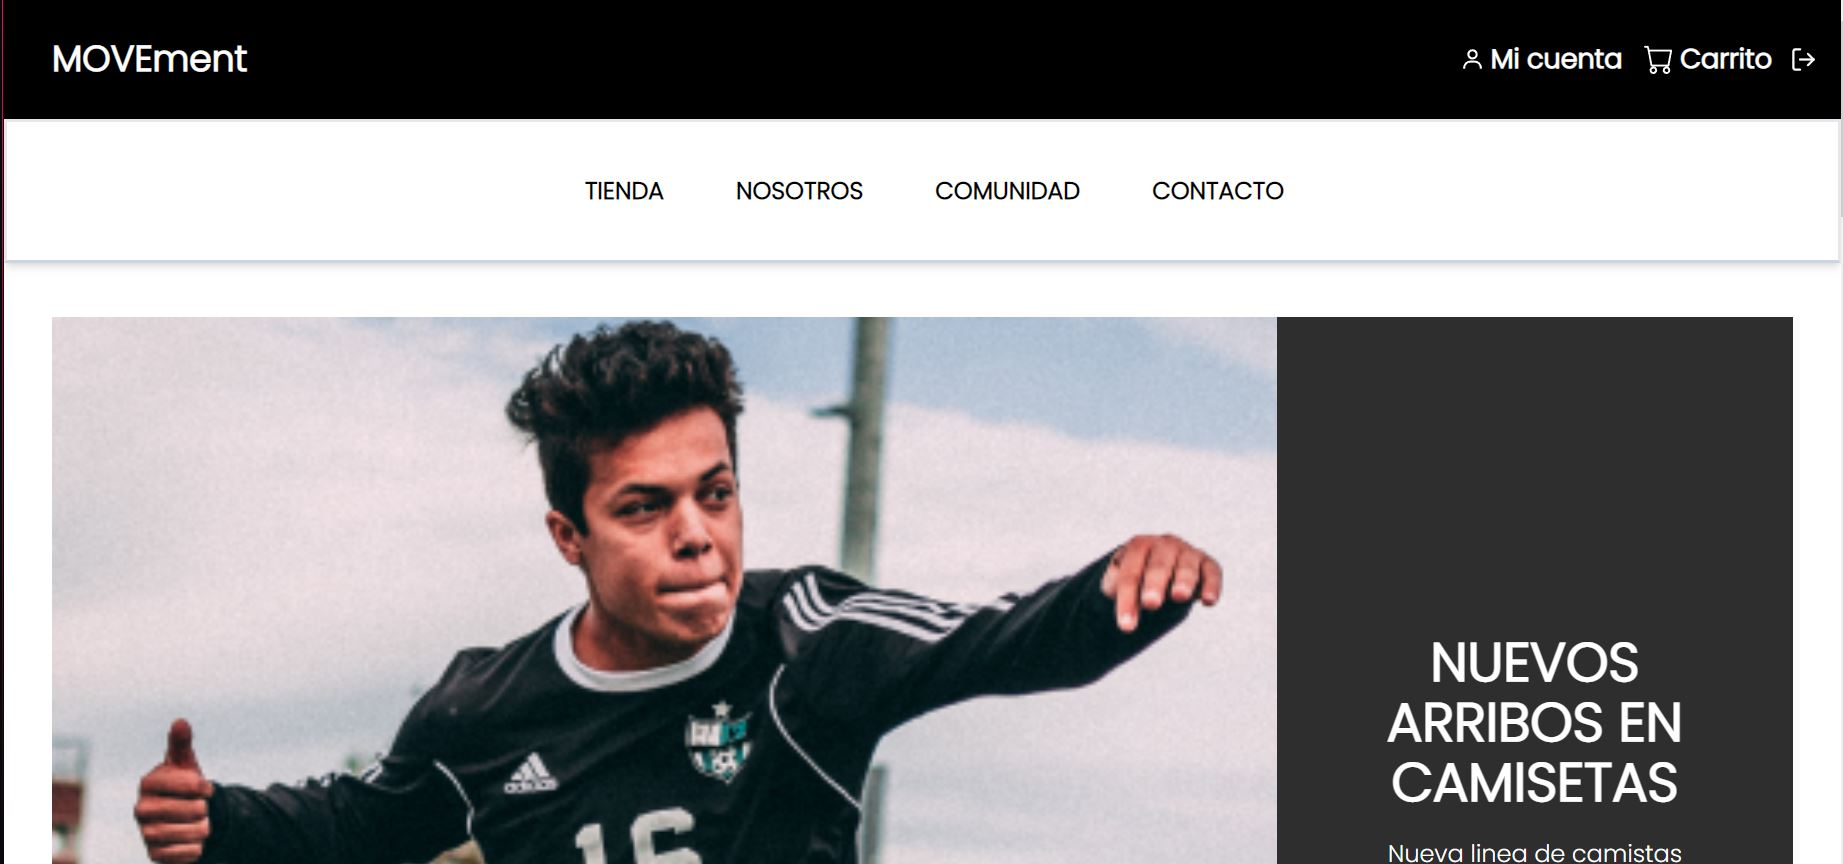
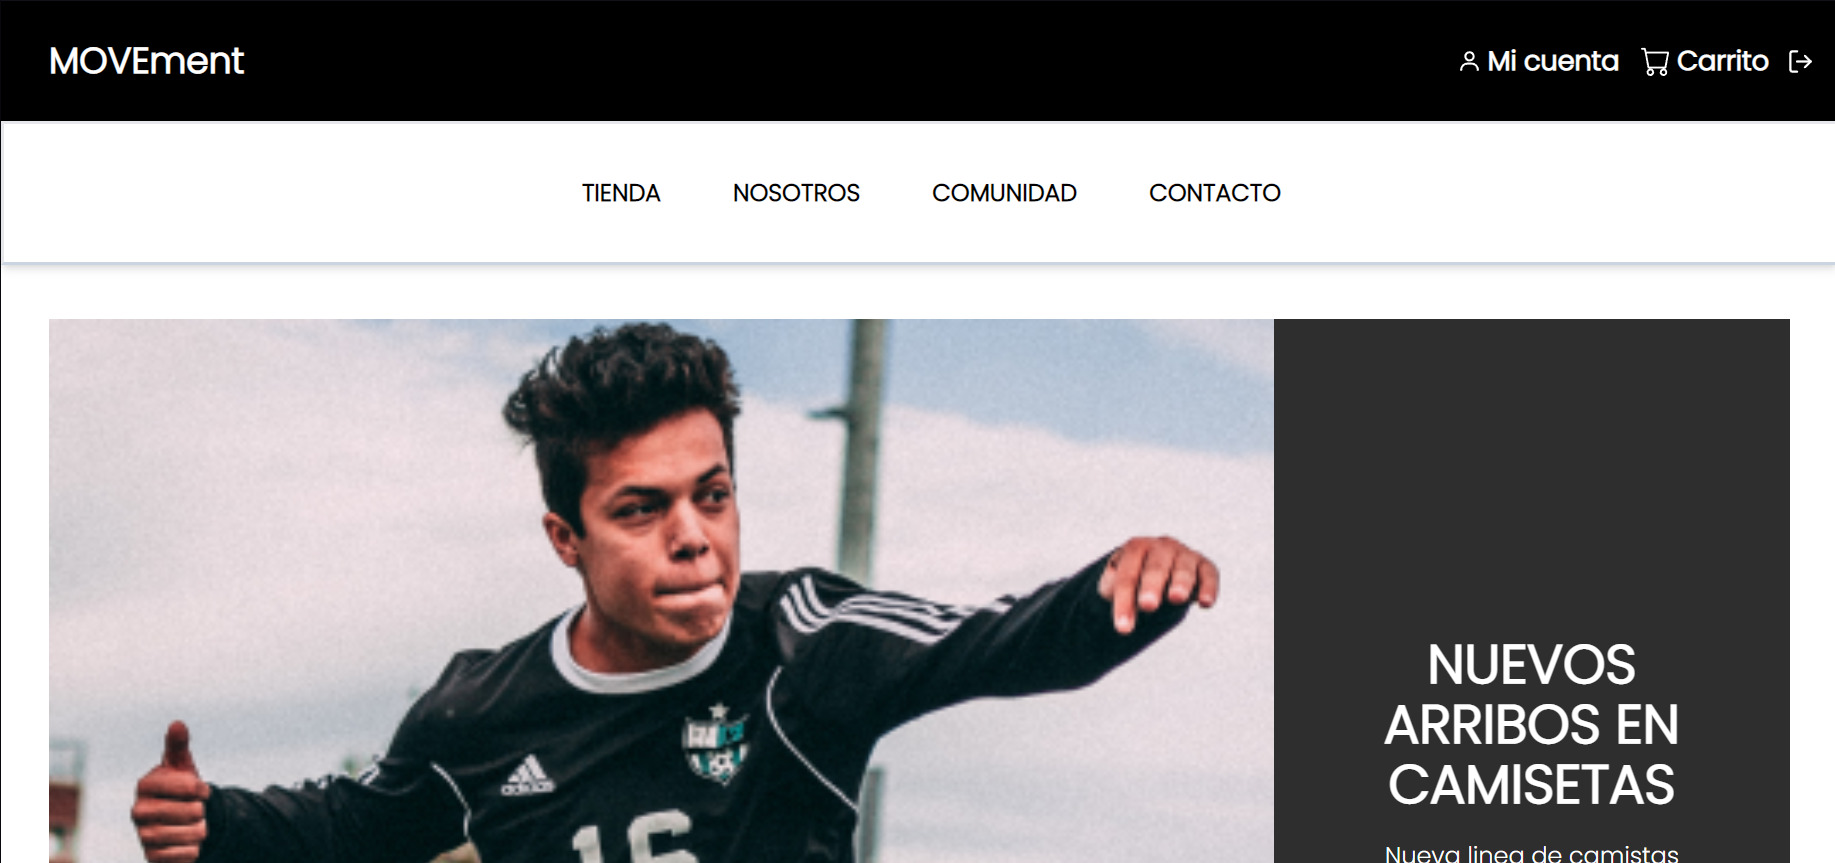
building

diff --git a/utilities/allProjects.js b/utilities/allProjects.js
@@ -1,4 +1,4 @@
-import movementImg from '../public/movement.JPG'
+import movementImg from '../public/movement.jpg'
 import netflixCloneImg from '../public/netflix-clone.png'
 import customSportsImg from '../public/custom-sports.jpg'
 import searchCountryImg from '../public/search-country.png'
